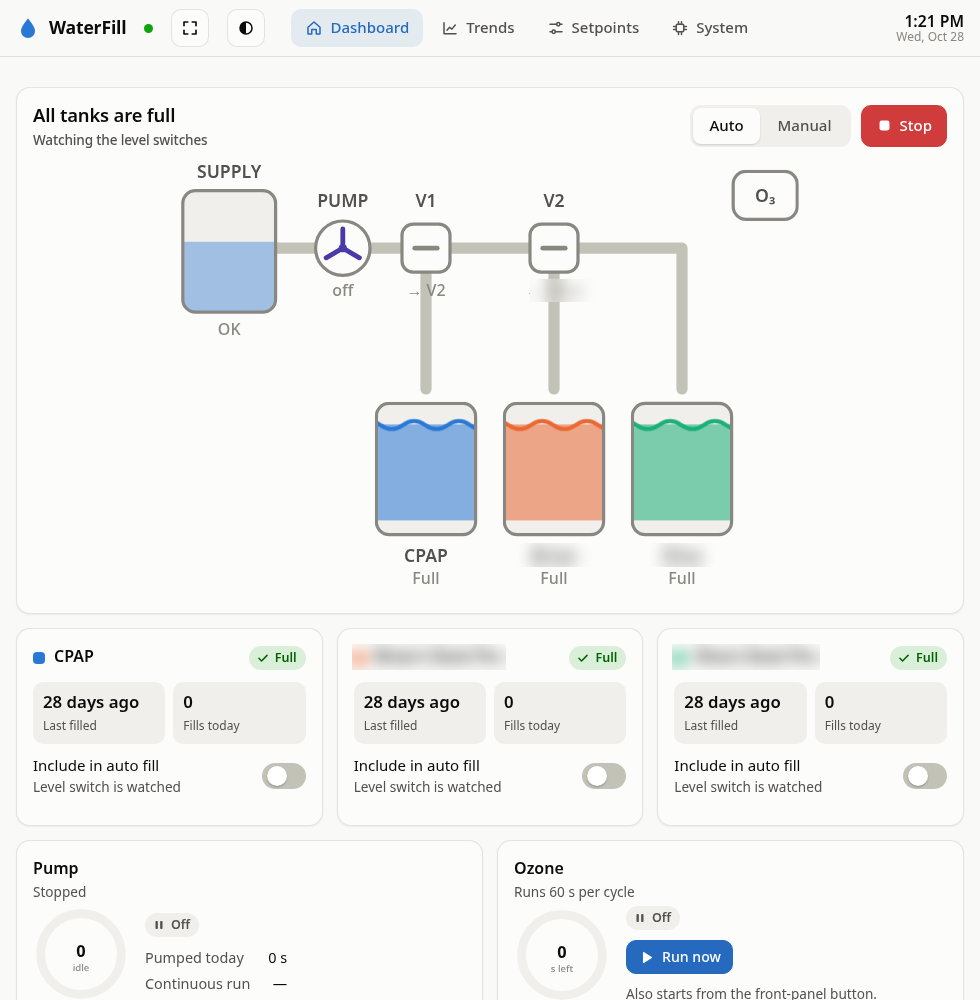
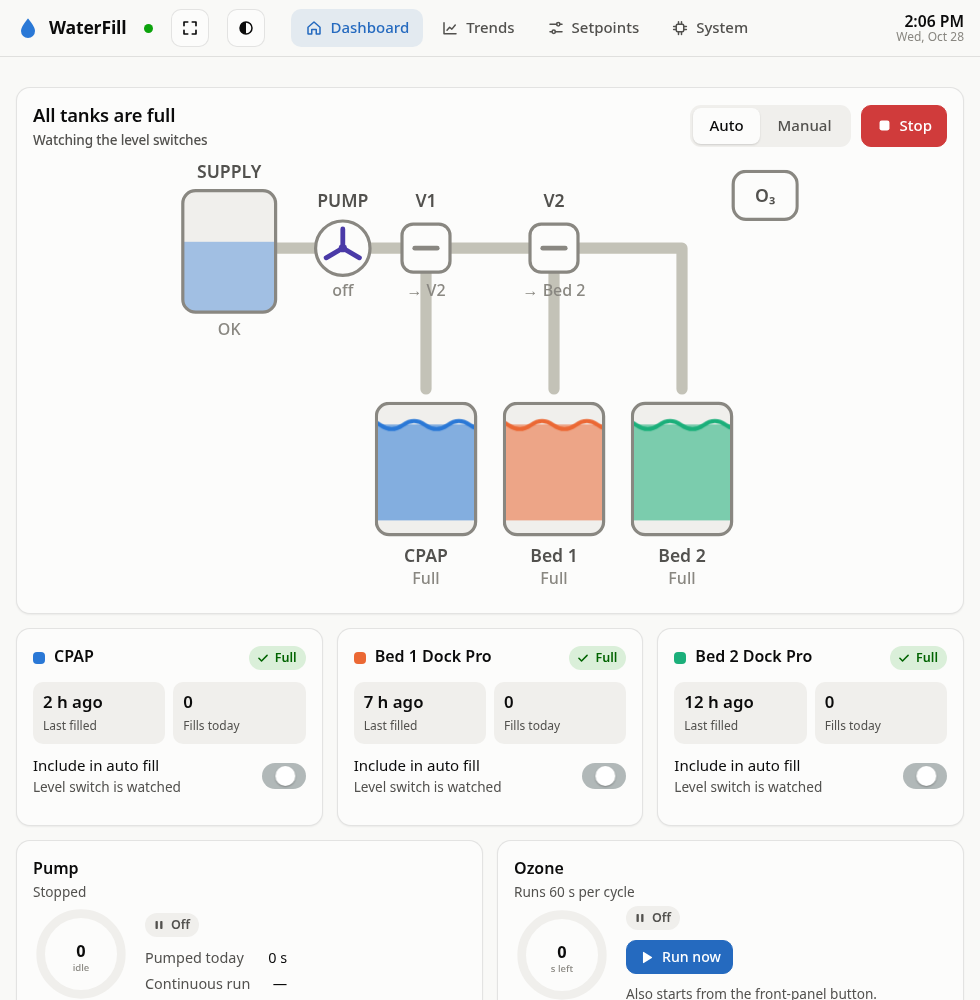
Add public README
Adds a public-facing README (and screenshots where available) for the
github.com/btkramer showcase.

diff --git a/README.md b/README.md
@@ -1,5 +1,12 @@
 # WaterFill
 
+![ESP32](https://img.shields.io/badge/ESP32-E7352C?logo=espressif&logoColor=white)
+![Arduino](https://img.shields.io/badge/Arduino-00878F?logo=arduino&logoColor=white)
+![C++17](https://img.shields.io/badge/C%2B%2B-17-00599C?logo=cplusplus&logoColor=white)
+![Tests](https://img.shields.io/badge/safety%20checks-4.1M%20passing-2ea44f)
+![MQTT](https://img.shields.io/badge/MQTT-660066?logo=mqtt&logoColor=white)
+![Status](https://img.shields.io/badge/status-firmware%20running-yellow)
+
 An ESP32 controller that keeps three bedside water reservoirs topped up automatically: a CPAP
 humidifier and two bed-cooling units (Dock Pro). It runs one pump and two solenoid valves from a
 shared supply tank and adds a timed ozone treatment, with a live web dashboard and Home Assistant
@@ -18,6 +25,23 @@ SUPPLY ─▶ PUMP ─▶ V1 ─┬─▶ CPAP          (V1 on)
 A level switch in each tank calls for water. The controller routes the flow with the valves,
 runs the pump until that tank's switch reads full, then moves on to the next tank that needs
 water.
+
+This is a rewrite of an earlier sketch (kept in `source/`). The new version separates the control
+logic from the hardware so the logic can be tested properly. A machine that pumps water next to
+a bed has to fail safe.
+
+## Screens
+
+| | |
+|:---:|:---:|
+| ![Filling a tank](docs/images/filling.png) | ![Supply empty](docs/images/supply-empty.png) |
+| **Filling**: the live diagram shows the active path | **Supply empty**: the pump is blocked until the supply refills |
+| ![Trends](docs/images/trends.png) | ![Setpoints](docs/images/setpoints.png) |
+| **Trends**: activity timeline, fills per day, pump run time | **Setpoints**: per-tank switches, polarity and fault limits |
+| ![System](docs/images/system.png) | <img src="docs/images/mobile.png" width="300" alt="Phone layout"> |
+| **System**: live I/O, controller info, lifetime totals, OTA | **Phone layout** |
+
+<sub>Captured from <code>tools/mock_server.py</code>, which simulates the controller (run it with <code>MOCK_SCENARIO=supply</code>, <code>fault</code>, etc.).</sub>
 
 ## Safety first
 
